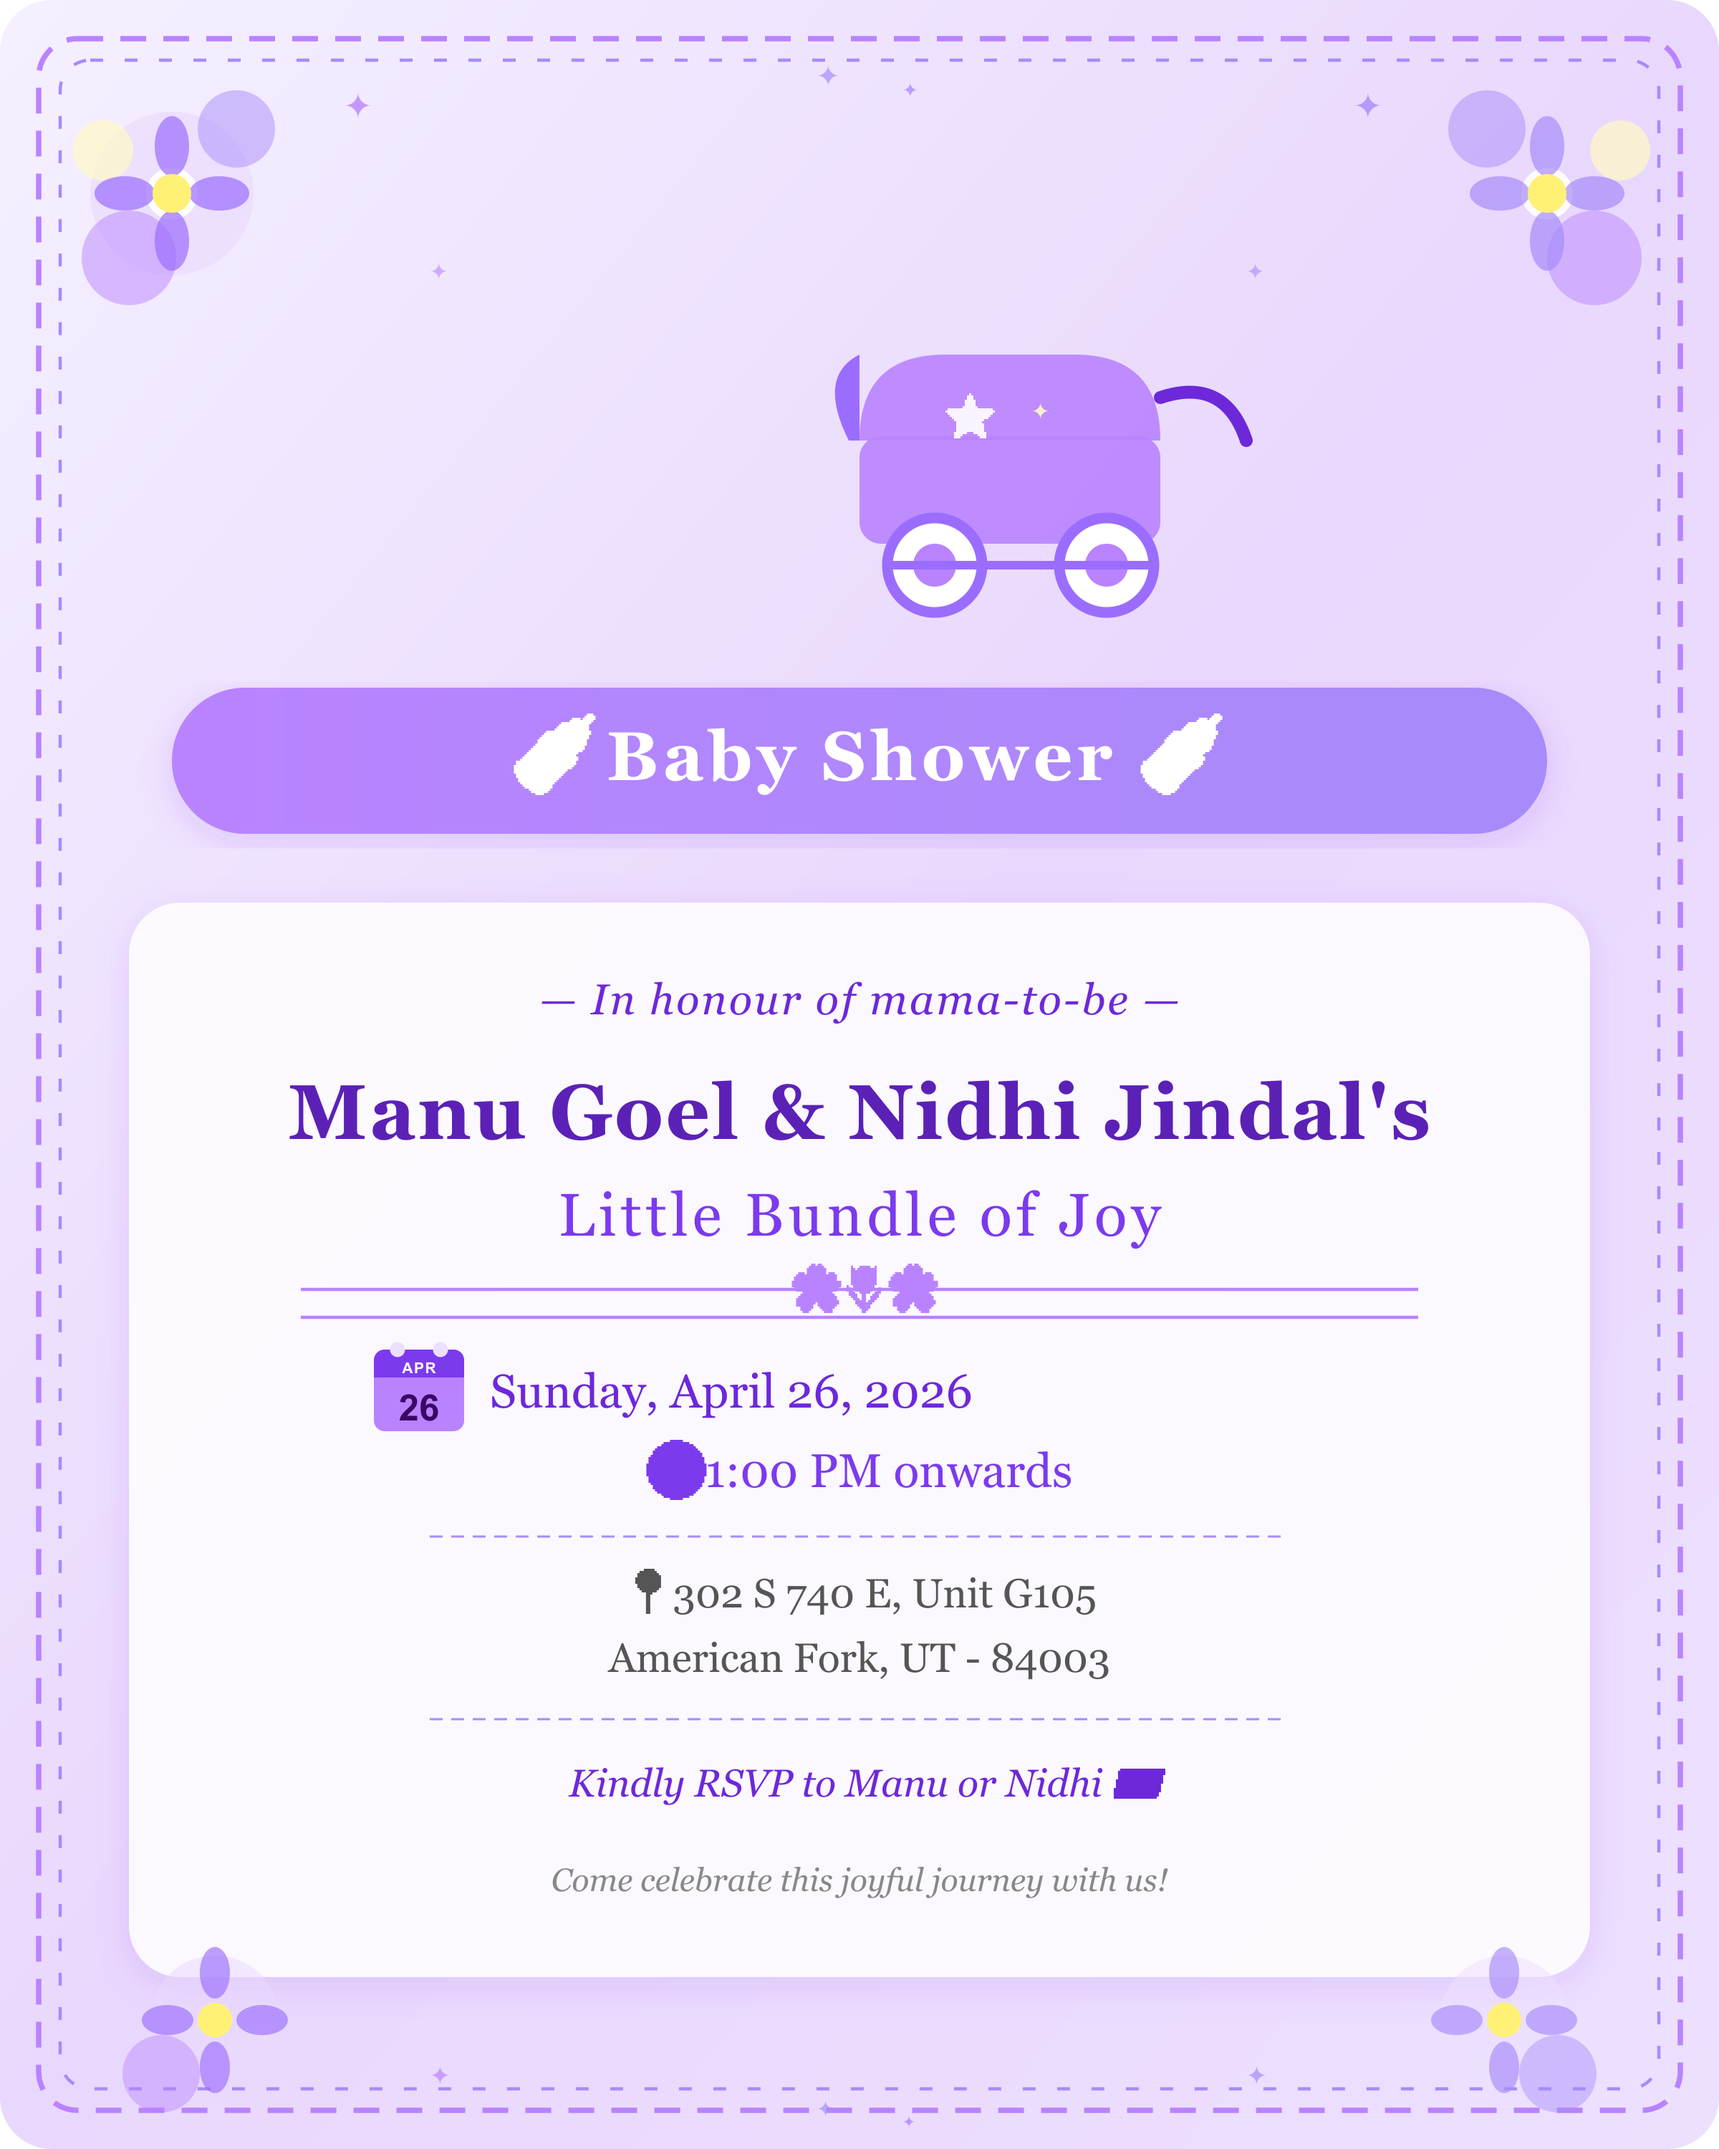
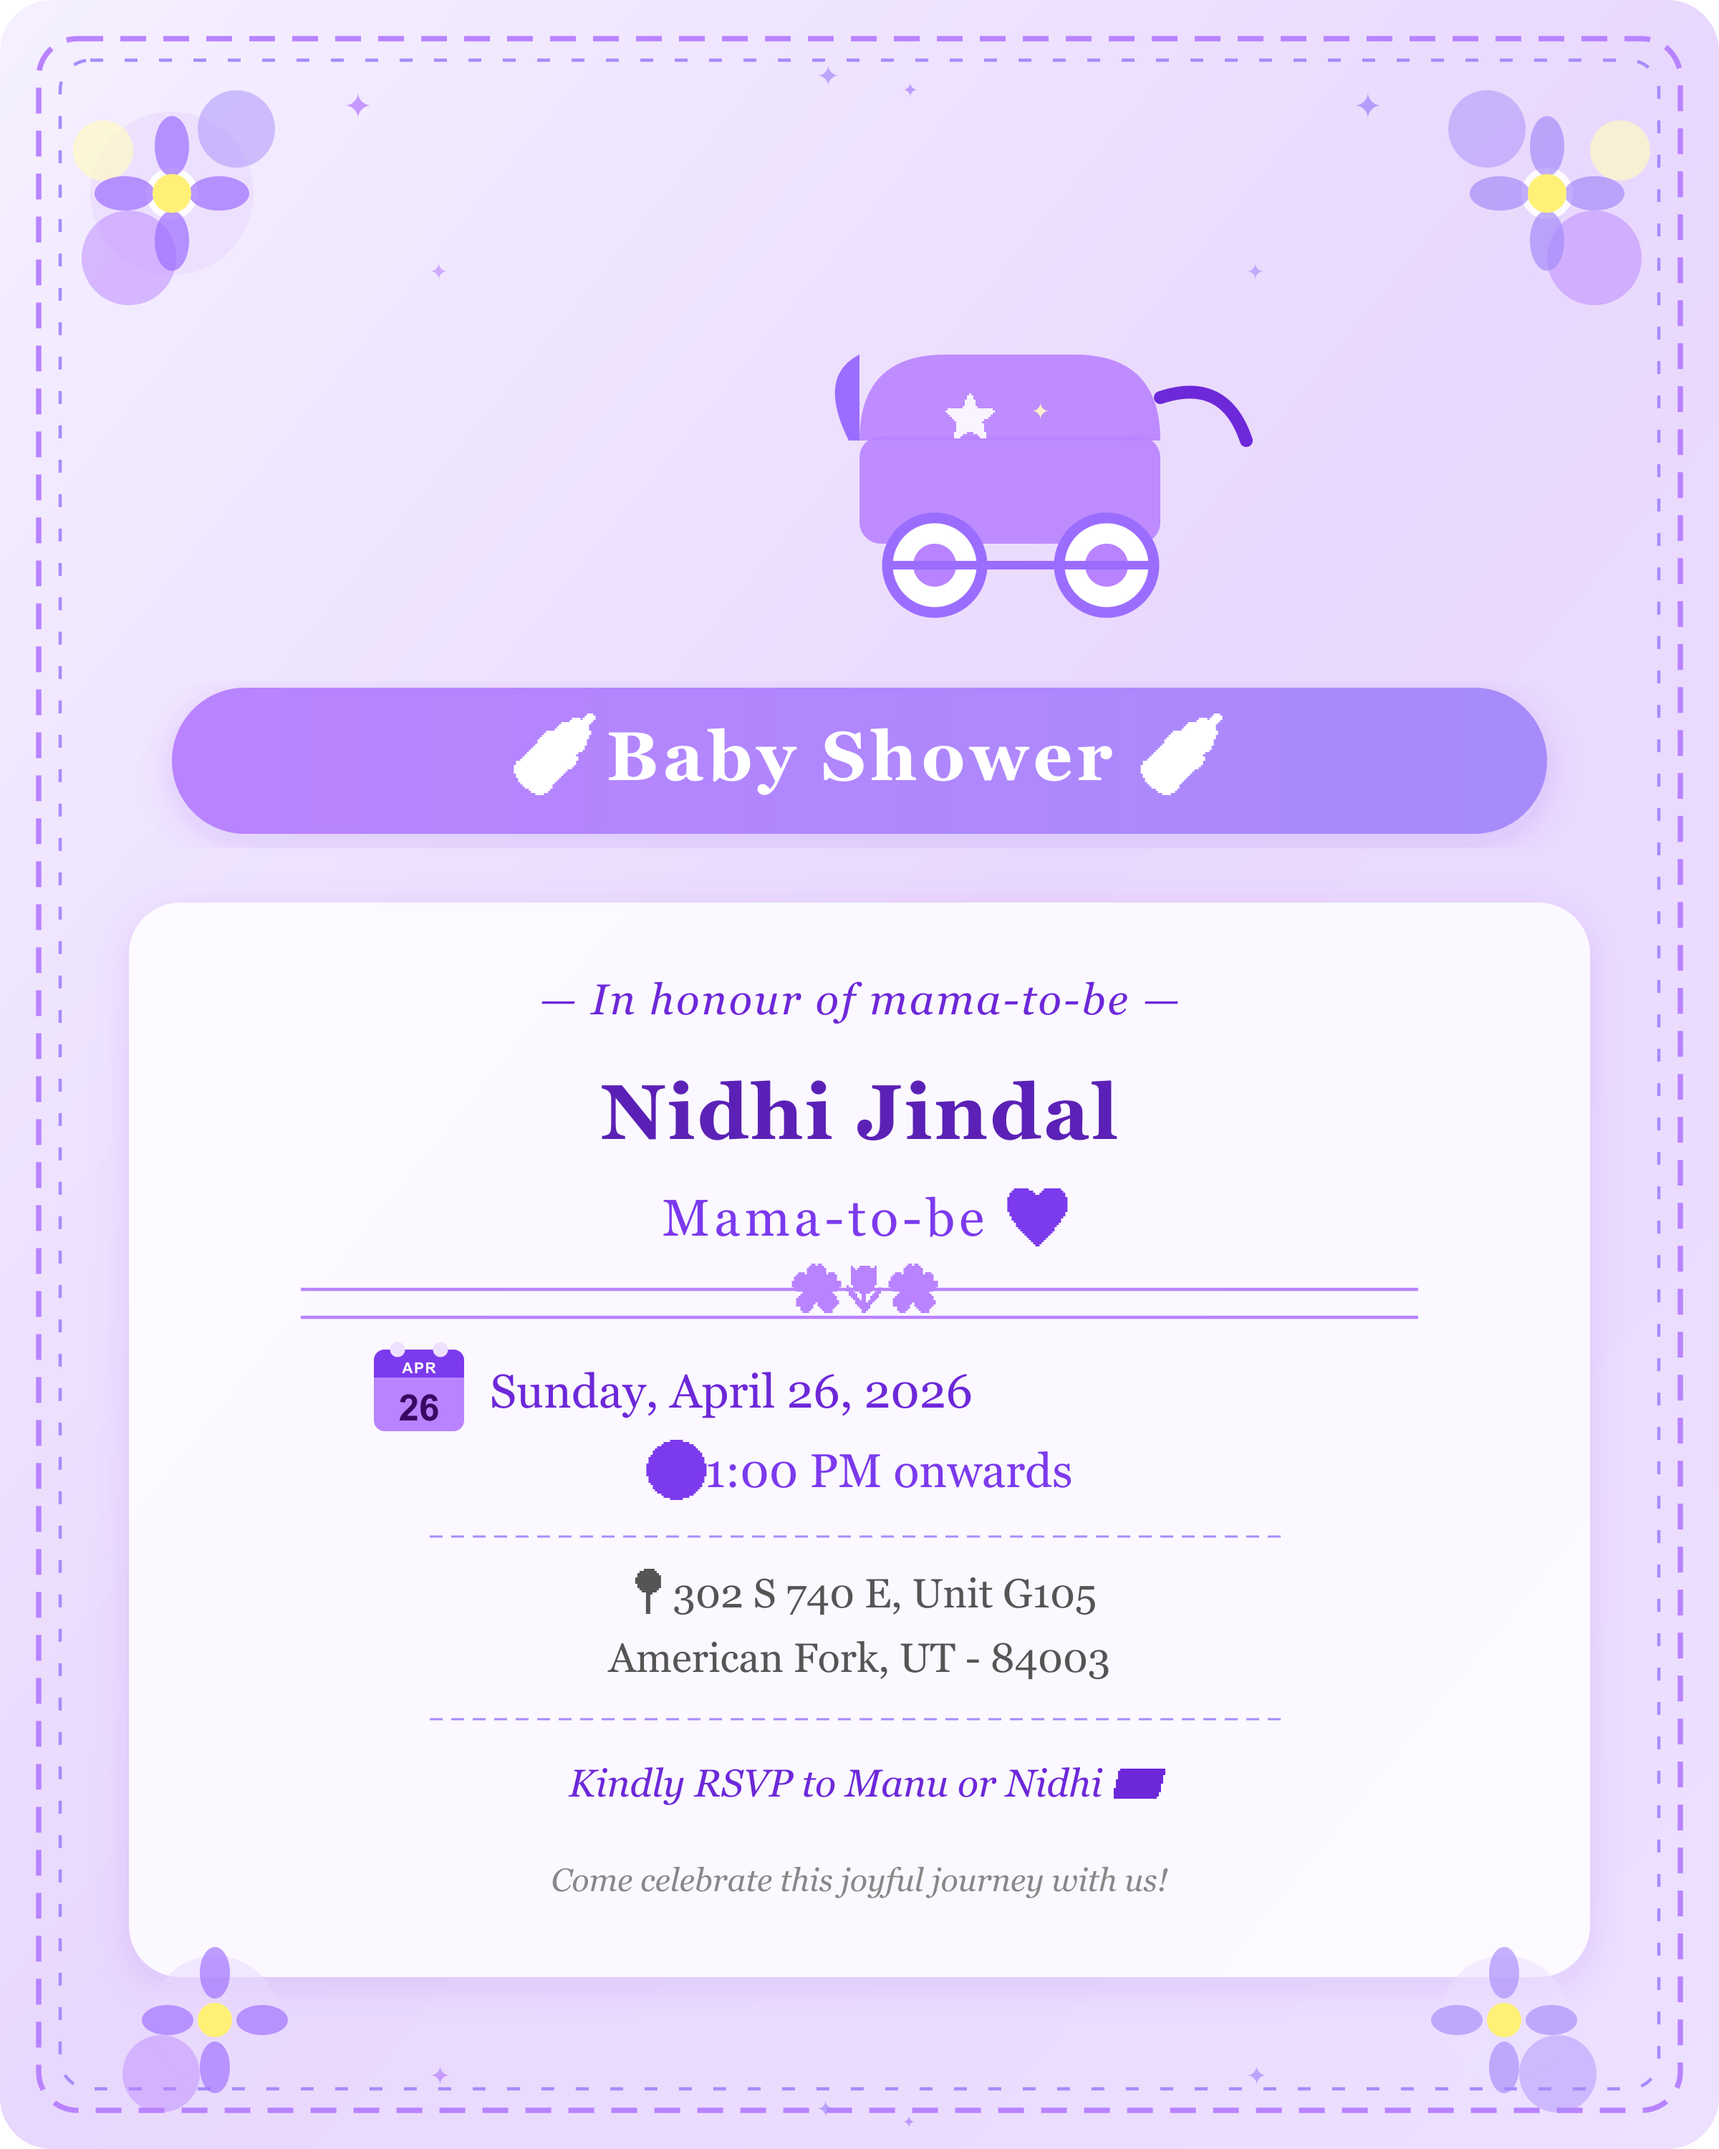
In honour of mama-to-be Nidhi Jindal only, remove father reference

Changed region(s): [[0.1562, 0.496, 0.8438, 0.589]]

diff --git a/index.html b/index.html
@@ -317,7 +317,7 @@
   <section class="hero">
     <div class="tag">You're Invited 🍼</div>
     <h1>Baby Shower<br/><span>Celebration</span></h1>
-    <p class="subtitle">Join us in celebrating Nidhi &amp; Manu's little one on the way! 💕</p>
+    <p class="subtitle">Celebrating mama-to-be Nidhi Jindal &amp; the little one on the way! 💜</p>
   </section>
 
   <!-- ═══ CARD ═══ -->
@@ -336,8 +336,8 @@
         <div class="info-grid">
           <div class="info-item">
             <div class="icon">👶</div>
-            <div class="label">Celebrating</div>
-            <div class="value">Manu Goel<br/>&amp; Nidhi Jindal<small>Their little bundle of joy!</small></div>
+            <div class="label">In Honour Of</div>
+            <div class="value">Nidhi Jindal<small>Mama-to-be 💜</small></div>
           </div>
           <div class="info-item">
             <div class="icon">
@@ -375,10 +375,12 @@
 
         <!-- Message -->
         <div class="message-box">
-          "We are overjoyed and would love nothing more than to celebrate this beautiful moment with you.
-          Come share in our happiness, laughter, and love as we await our little one! 🎀"
+          "We are overjoyed and would love nothing more than to celebrate
+          our beautiful mama-to-be with you.
+          Come shower <strong>Nidhi</strong> with love, laughter, and joy
+          as we await our little one! 🎀"
           <br/><br/>
-          — <strong>Manu Goel &amp; Nidhi Jindal</strong>
+          — <strong>Manu Goel</strong>
         </div>
 
         <!-- Countdown -->
